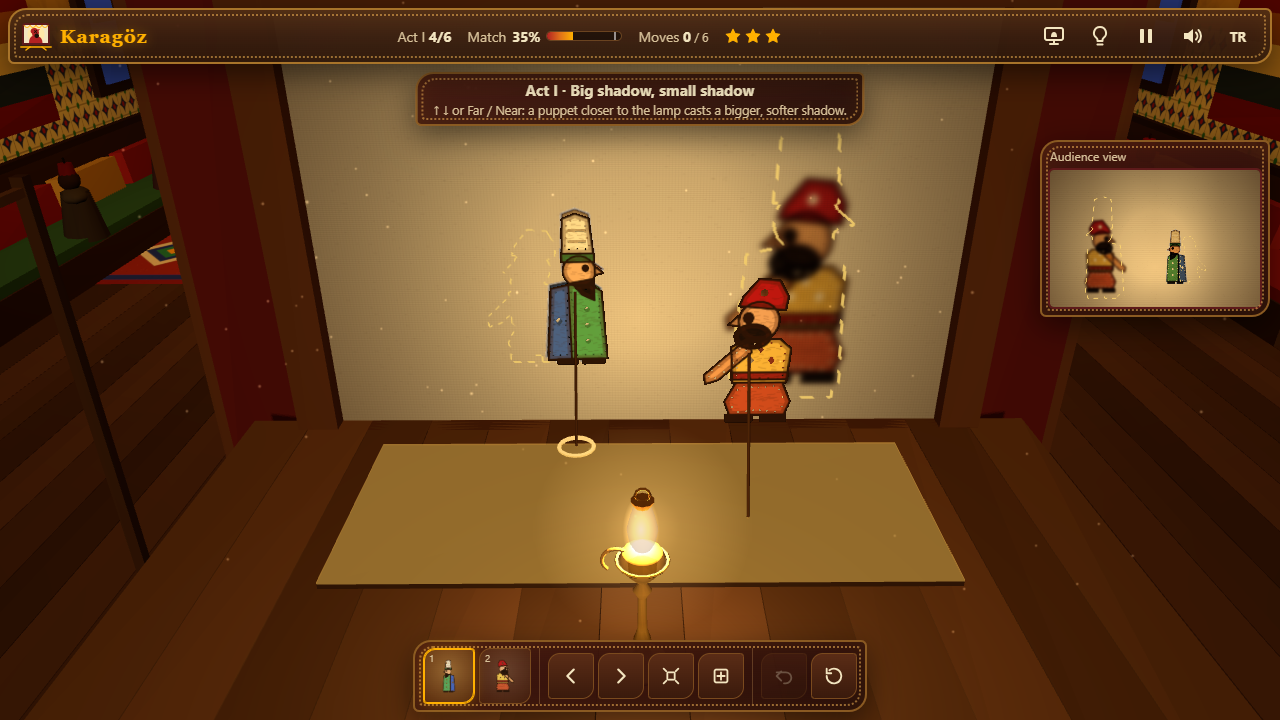
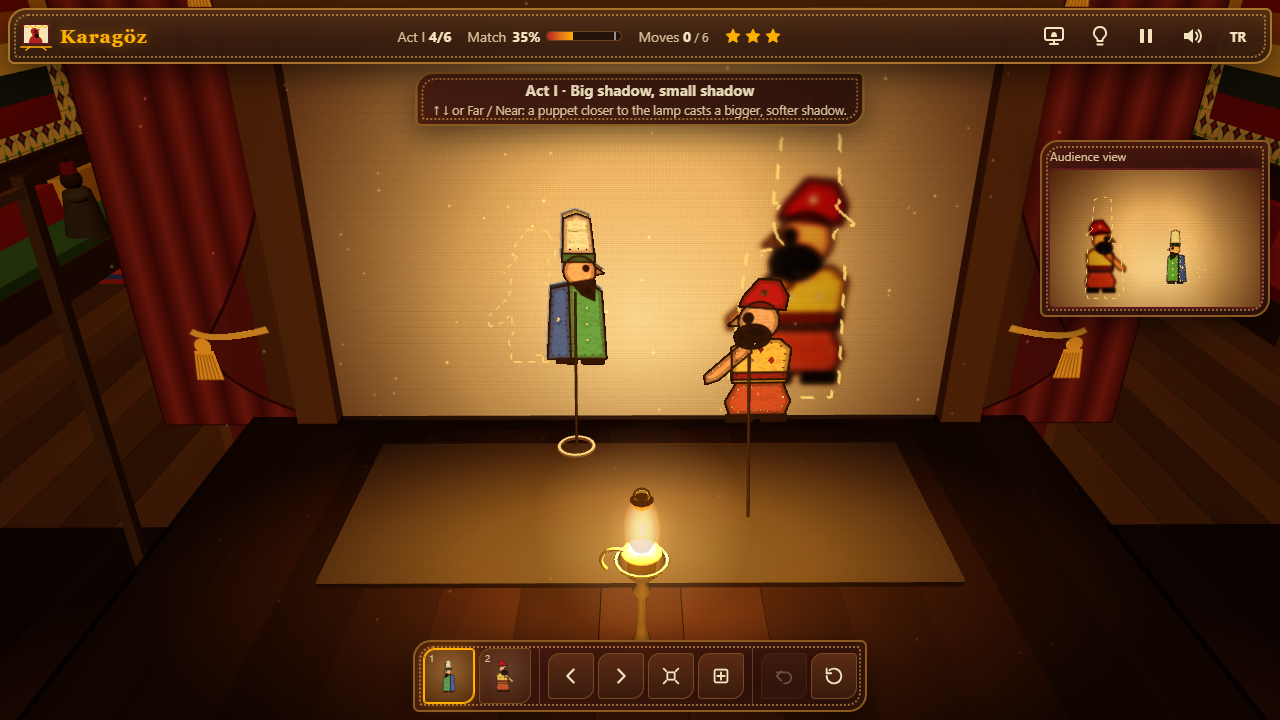
docs: stage pass screenshots, same-scene before/after, cafe shot
Claude-Session: https://claude.ai/code/session_014vMYwwQ3htV8WjCni8q7av

diff --git a/README.md b/README.md
@@ -109,6 +109,9 @@ The live state is on `window.karagoz`.
     <td><img src="docs/05-act-map.png" alt="Act map"><br><sub>Act map</sub></td>
     <td><img src="docs/06-phone.png" alt="Karagöz on a phone"><br><sub>On a phone</sub></td>
   </tr>
+  <tr>
+    <td><img src="docs/07-cafe.png" alt="The coffee house from the audience side"><br><sub>The café, audience side</sub></td>
+  </tr>
 </table>
 
 ## Redesign (2026-11)
@@ -124,6 +127,9 @@ green `#2E8B57` and indigo `#283593`, curtain maroon `#5D1A1A`; translucent tool
 - **Puppets and lamps:** the leather now has grain, darker cut edges and punched dot rows, both on the 3D puppets and
   in their shadows (display only: the match is still scored from the plain shapes); puppets glow like backlit hide and
   sway a little on their rods. The lamps are turned brass kandils with a bulb chimney and a handle.
+- **Stage:** the cloth reads as lamp-lit linen (warm glow on each kandil, darker amber edges, weave, vignette); the leather
+  shadows get a render-only stained-glass overlay with grain, outlines and punched dots; backstage, maroon drapes with
+  gold tassels and a carved ogee arch frame the screen, and the stage floor falls from warm near the lamps to dark edges.
 - **FX:** a slow oil-lamp breathing on top of the flicker, flame wobble, gold sparks along the screen on every solve.
 - **UI:** cut-leather panels with a row of punched holes inside the edge, a maroon curtain valance over every menu,
   a walnut top bar, dye-coloured act cards and dialogue tags; 14 px minimum body text on phones and a compact
@@ -131,7 +137,7 @@ green `#2E8B57` and indigo `#283593`, curtain maroon `#5D1A1A`; translucent tool
 - **Kept:** all 24 scenes, 72 stars, controls, the match maths, the bot, saves (`arena.karagoz.*`), flags, audio and
   i18n. The default language now follows the browser (Turkish for `tr-*`, English otherwise); a saved choice still wins.
 - **Measured** (headless Chrome, Intel UHD 620, 1280×720): static scenes 60 fps before and after; draw calls 18-22 →
-  24-30; timed act IV scenes 39 → 46 fps (they redraw the cloth texture every 30 ms, as before; `?low` gives 60).
+  28-32; timed act IV scenes 39 fps before and after (they redraw the cloth texture every 30 ms, as before; `?low` gives 60).
 
 ## Running locally
 
